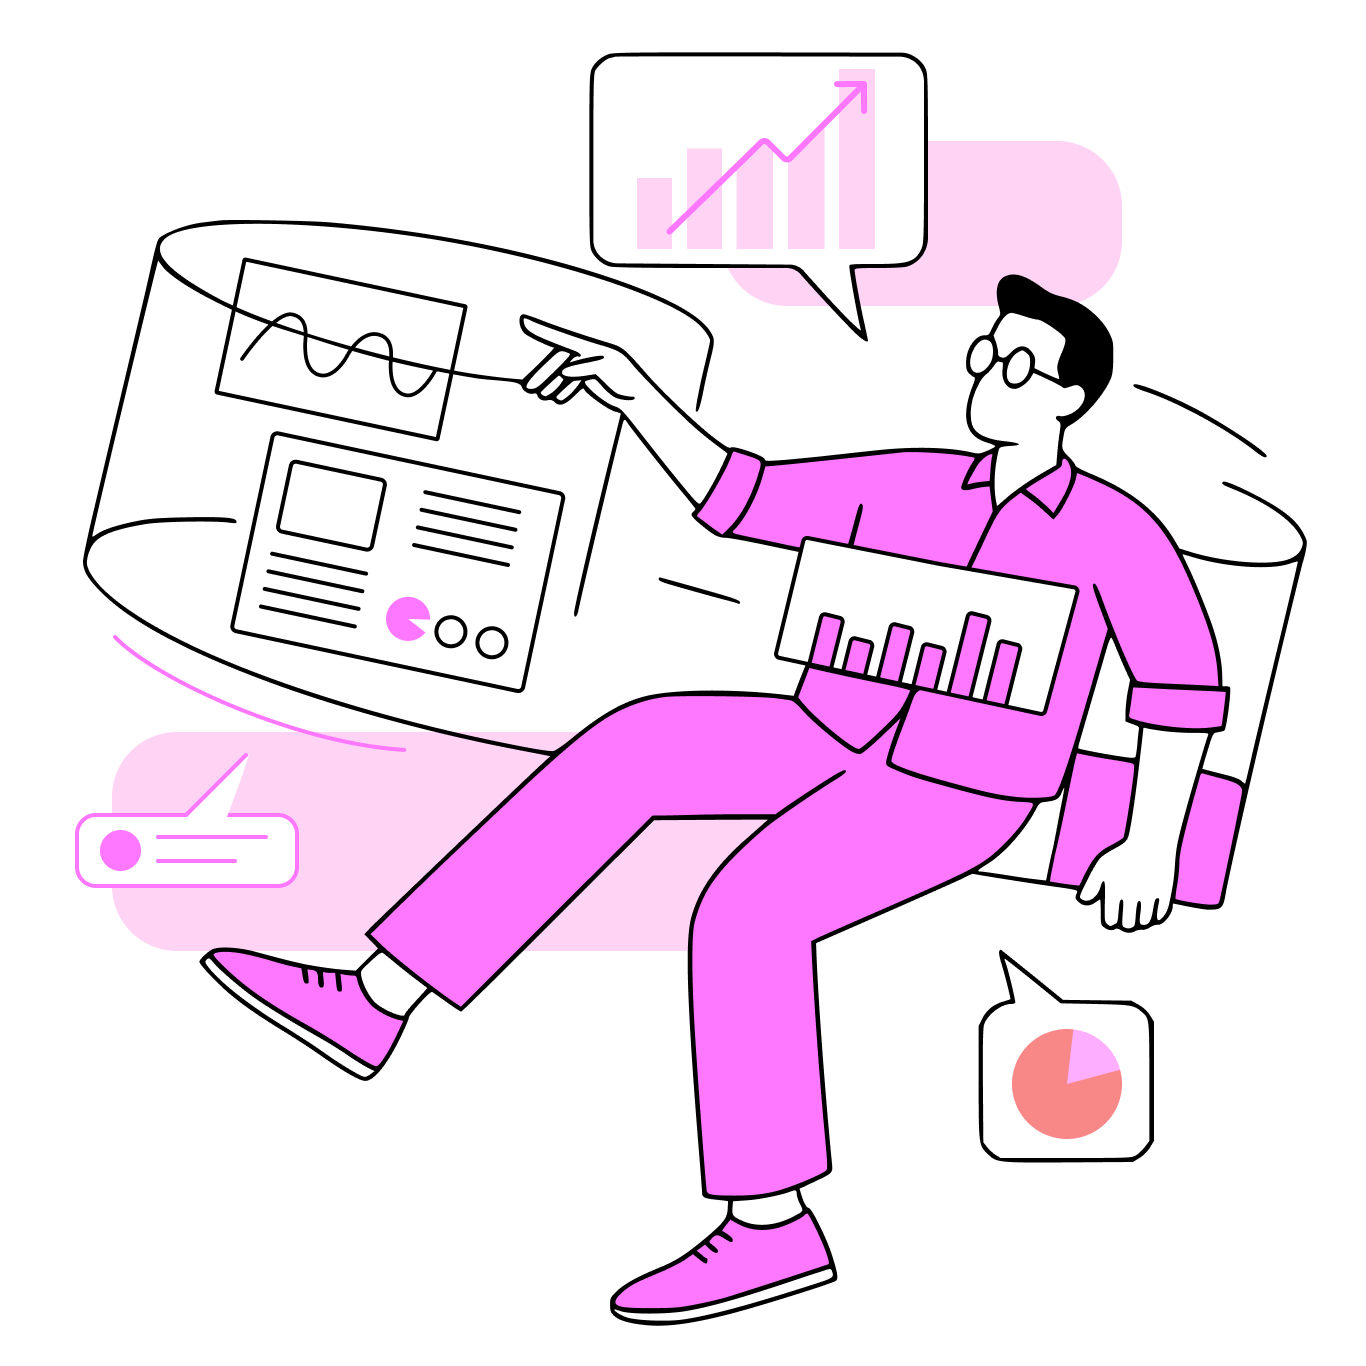
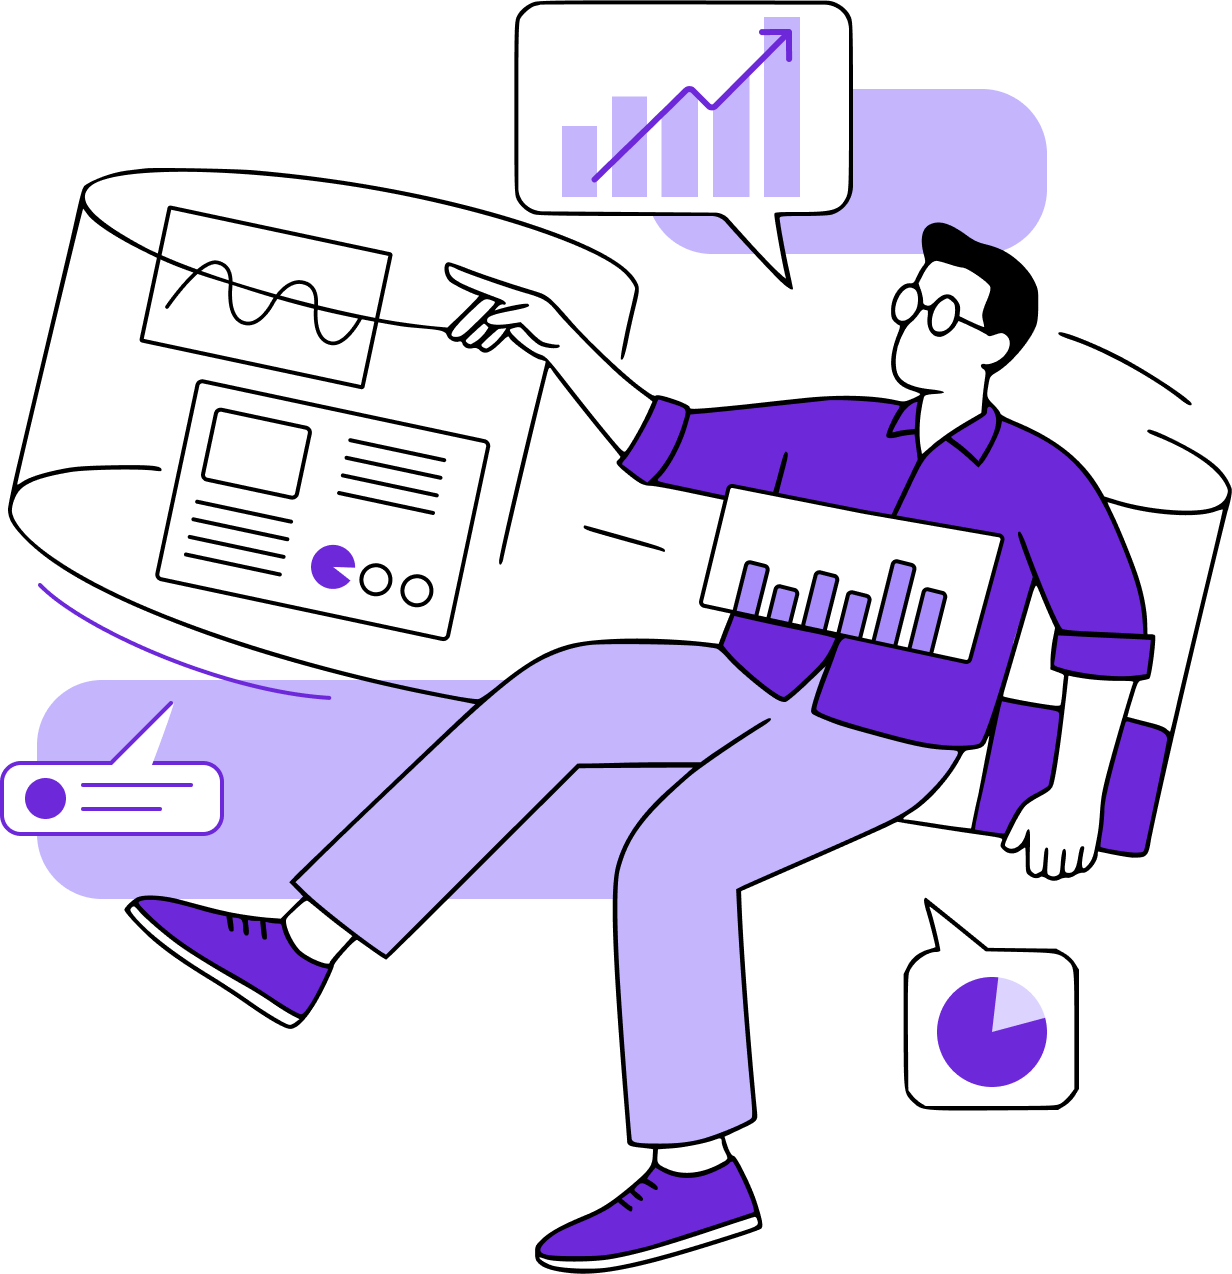
edit visual

diff --git a/index.html b/index.html
@@ -149,7 +149,7 @@
         <div class="row align-items-center cs_gap_y_40">
           <div class="col-xl-6 wow fadeInLeft" data-wow-duration="0.8s" data-wow-delay="0.2s">
             <div class="cs_pr_45 text-center">
-              <img src="/assets/img/ColroseMen.png" alt="">
+              <img src="/assets/img/ColroseWomen.png" alt="">
             </div>
           </div>
           <div class="col-xl-6 wow fadeIn" data-wow-duration="0.8s" data-wow-delay="0.2s">
@@ -206,28 +206,31 @@
               <p class="cs_section_subtitle cs_text_accent"></p>
               <h2 class="cs_section_title mb-0">Какую аналитику можем предоставить</h2>
             </div>
-            <div class="cs_height_60 cs_height_lg_40"></div>
+            <div class="cs_height_40 cs_height_lg_40"></div>
             <ul class="cs_list cs_style_1 cs_mp0">
               <li>
-                <span class="cs_list_text">Процентное распределение брендов внутри магазинов.</span>
+                <span class="cs_list_text">• Процентное распределение брендов внутри магазинов.</span>
               </li>
               <li>
-                <span class="cs_list_text">Анализ наличия и изменения ассортимента ваших конкурентов.</span>
+                <span class="cs_list_text">• Анализ наличия и ассортимента ваших конкурентов.</span>
               </li>
               <li>
-                <span class="cs_list_text">Определение средней рыночной цены на товар и оценка позиций в магазинах относительно неё.</span>
+                <span class="cs_list_text">• Оценка позиций относительно средней рыночной цены.</span>
               </li>
               <li>
-                <span class="cs_list_text">Сопоставление ваших цен и стоимости товаров из других магазинов.</span>
+                <span class="cs_list_text">• Поиск лучших цен на товар.</span>
               </li>
               <li>
-                <span class="cs_list_text">Также мы можем провести аналитику по вашим требованиям.</span>
+                <span class="cs_list_text">• Сопоставление и классификация товаров.</span>
+              </li>
+              <li>
+                <span class="cs_list_text">• Также мы можем провести аналитику по вашим требованиям.</span>
               </li>
             </ul>
           </div>
           <div class="col-xl-6 wow fadeInRight" data-wow-duration="0.8s" data-wow-delay="0.2s">
             <div class="cs_feature_thumb_1 text-center">
-              <img src="/assets/img/ColroseWomen.png" alt="">
+              <img src="/assets/img/ColroseMen.png" alt="">
             </div>
           </div>
         </div>
@@ -410,18 +413,15 @@
           </div>
         </div>
       </div>
-      <div class="cs_faq_shape1"></div>
-      <div class="cs_faq_shape2"></div>
-      <div class="cs_height_150 cs_height_lg_75"></div>
     </section>
     <!--End FAQ's section -->
     <!--Start Blog Section -->
-    <section class="cs_blog cs_gradient_bg_2" id="blog">
-      <div class="cs_height_143 cs_height_lg_75"></div>
+    <section class="cs_blog" id="blog">
+      <div class="cs_height_150 cs_height_lg_75"></div>
       <div class="container">
         <div class="cs_section_heading cs_style_1 text-center">
           <p class="cs_section_subtitle cs_text_accent wow fadeInUp" data-wow-duration="0.8s" data-wow-delay="0.2s">Последние статьи</p>
-          <h2 class="cs_section_title mb-0 wow fadeIn" data-wow-duration="0.8s" data-wow-delay="0.2s"> Блог по сбору данных и аналитике<br></h2>
+          <h2 class="cs_section_title mb-0 wow fadeIn" data-wow-duration="0.8s" data-wow-delay="0.2s"> Блог по мониторингу и аналитике данных<br></h2>
         </div>
         <div class="cs_height_85 cs_height_lg_60"></div>
         <div class="row wow fadeIn" data-wow-duration="0.8s" data-wow-delay="0.2s">
@@ -430,7 +430,6 @@
               <a href="blog/article1.html" class="cs_post_link" style="display: block; text-decoration: none; color: inherit;">
                 <div class="cs_post_thumb">
                   <img src="/assets/img/article1_blog_picture.avif" alt="Image">
-                  <div class="cs_posted_by">25 Mar</div>
                 </div>
               </a>
               <div class="cs_post_content">
@@ -449,7 +448,7 @@
                         <img src="assets/img/label.svg" alt="Image">
                       </div>
                       <p class="mb-0">
-                        Software
+                        2025.08.02
                       </p>
                     </div>
                   </div>
@@ -462,7 +461,7 @@
                 <div class="cs_post_user">
                   <a href="blog/article1.html" class="cs_post_link" style="display: block; text-decoration: none; color: inherit;">
                     <span class="cs_text_btn">
-                      Read More
+                      Читать статью
                       <svg width="11" height="11" viewBox="0 0 11 11" fill="none" xmlns="http://www.w3.org/2000/svg">
                         <path
                           d="M10.147 1.75739C10.147 1.28795 9.76649 0.907395 9.29705 0.907394L1.64705 0.907394C1.17761 0.907395 0.797048 1.28795 0.797048 1.75739C0.797048 2.22684 1.17761 2.60739 1.64705 2.60739H8.44705V9.4074C8.44705 9.87684 8.82761 10.2574 9.29705 10.2574C9.76649 10.2574 10.147 9.87684 10.147 9.4074L10.147 1.75739ZM1.41281 10.8437L9.89809 2.35844L8.69601 1.15635L0.210727 9.64163L1.41281 10.8437Z"
@@ -486,7 +485,6 @@
               <a href="blog/article1.html" class="cs_post_link" style="display: block; text-decoration: none; color: inherit;">
                 <div class="cs_post_thumb">
                   <img src="/assets/img/blog-article-img-2.jpg" alt="Image">
-                  <div class="cs_posted_by">22 Apr</div>
                 </div>
               </a>
               <div class="cs_post_content">
@@ -505,7 +503,7 @@
                         <img src="assets/img/label.svg" alt="Image">
                       </div>
                       <p class="mb-0">
-                        Software
+                        2025.08.02
                       </p>
                     </div>
                   </div>
@@ -518,7 +516,7 @@
                 <div class="cs_post_user">
                   <a href="blog/article1.html" class="cs_post_link" style="display: block; text-decoration: none; color: inherit;">
                     <span class="cs_text_btn">
-                      Read More
+                      Читать статью
                       <svg width="11" height="11" viewBox="0 0 11 11" fill="none" xmlns="http://www.w3.org/2000/svg">
                         <path
                           d="M10.147 1.75739C10.147 1.28795 9.76649 0.907395 9.29705 0.907394L1.64705 0.907394C1.17761 0.907395 0.797048 1.28795 0.797048 1.75739C0.797048 2.22684 1.17761 2.60739 1.64705 2.60739H8.44705V9.4074C8.44705 9.87684 8.82761 10.2574 9.29705 10.2574C9.76649 10.2574 10.147 9.87684 10.147 9.4074L10.147 1.75739ZM1.41281 10.8437L9.89809 2.35844L8.69601 1.15635L0.210727 9.64163L1.41281 10.8437Z"
@@ -534,6 +532,7 @@
                 </div>
               </div>
             </div>
+            <div class="cs_height_lg_30"></div>
             <div class="cs_height_lg_0"></div>
           </div>
           <div class="col-lg-4">
@@ -541,7 +540,6 @@
               <a href="blog/article1.html" class="cs_post_link" style="display: block; text-decoration: none; color: inherit;">
                 <div class="cs_post_thumb">
                   <img src="/assets/img/blog-article-img-3.jpg" alt="Image">
-                  <div class="cs_posted_by">05 July</div>
                 </div>
               </a>
               <div class="cs_post_content">
@@ -560,7 +558,7 @@
                         <img src="assets/img/label.svg" alt="Image">
                       </div>
                       <p class="mb-0">
-                        Software
+                        2025.08.02
                       </p>
                     </div>
                   </div>
@@ -573,7 +571,7 @@
                 <div class="cs_post_user">
                   <a href="blog/article1.html" class="cs_post_link" style="display: block; text-decoration: none; color: inherit;">
                     <span class="cs_text_btn">
-                      Read More
+                     Читать статью
                       <svg width="11" height="11" viewBox="0 0 11 11" fill="none" xmlns="http://www.w3.org/2000/svg">
                         <path
                           d="M10.147 1.75739C10.147 1.28795 9.76649 0.907395 9.29705 0.907394L1.64705 0.907394C1.17761 0.907395 0.797048 1.28795 0.797048 1.75739C0.797048 2.22684 1.17761 2.60739 1.64705 2.60739H8.44705V9.4074C8.44705 9.87684 8.82761 10.2574 9.29705 10.2574C9.76649 10.2574 10.147 9.87684 10.147 9.4074L10.147 1.75739ZM1.41281 10.8437L9.89809 2.35844L8.69601 1.15635L0.210727 9.64163L1.41281 10.8437Z"
@@ -596,12 +594,11 @@
           </div>
         </div>
       </div>
-      <div class="cs_height_150 cs_height_lg_80"></div>
     </section>
     <!--End Blog Section -->
     <!-- Start CTA section -->
     <section id="contact">
-      <div class="cs_height_143 cs_height_lg_75"></div>
+      <div class="cs_height_150 cs_height_lg_80"></div>
       <div class="container">
         <div class="cs_cta cs_style_1 text-center position-relative">
           <div class="cs_cta_in">
@@ -623,10 +620,10 @@
             </div>
           </div>
           <div class="cs_cta_shape1">
-            <img src="assets/img/Ellipse_small.svg" alt="">
+            <img src="assets/img/colrosemedium.svg" alt="">
           </div>
           <div class="cs_cta_shape2">
-            <img src="assets/img/stroke.svg" alt="">
+            <img src="assets/img/colrosebig2.svg" alt="">
           </div>
         </div>
       </div>

diff --git a/assets/css/style.css b/assets/css/style.css
@@ -1399,7 +1399,7 @@ textarea {
 }
 
 .cs_bg_accent {
-  background-color: #5b21b6;
+  background-color: #6D28D9;
 }
 
 .cs_bg_primary {
@@ -1423,7 +1423,7 @@ textarea {
 }
 
 .cs_gradient_bg_2 {
-  background: linear-gradient(90deg, #f0fbf4 0.01%, rgba(240, 251, 244, 0) 99.99%);
+  background: linear-gradient(90deg, #c4b5fd 0.01%, rgba(240, 251, 244, 0) 99.99%);
 }
 
 .cs_up_3_hover:hover {
@@ -1477,7 +1477,7 @@ textarea {
   display: flex;
   align-items: center;
   justify-content: center;
-  background-color: #06b453;
+  background-color: #8b5cf6;
   color: #ffffff;
   font-size: 18px;
   cursor: pointer;
@@ -1651,7 +1651,7 @@ textarea {
   color: #ffffff;
 }
 .cs_btn.cs_bg_primary.cs_dark_hover::after {
-  background-color: #06b453;
+  background-color: #8b5cf6;
 }
 
 .cs_text_btn {
@@ -1675,7 +1675,7 @@ textarea {
   transform: translate(7px, 9px);
 }
 .cs_text_btn:hover {
-  color: #06b453;
+  color: #8b5cf6;
 }
 .cs_text_btn:hover svg:first-child {
   transform: translate(7px, 9px);
@@ -1710,12 +1710,12 @@ textarea {
 }
 
 .cs_feature_thumb_1 {
-  width: calc(100% + 60px);
+  width: calc(85% + 60px);
   padding-left: 60px;
 }
 @media (max-width: 1400px) {
   .cs_feature_thumb_1 {
-    width: 100%;
+    width: 85%;
     padding-left: 0px;
   }
 }
@@ -1756,7 +1756,6 @@ textarea {
 }
 .cs_list.cs_style_1 .cs_list_text {
   font-size: 20px;
-  font-weight: 500;
   line-height: 1.524em;
 }
 @media (max-width: 1400px) {
@@ -2459,7 +2458,7 @@ textarea {
   7. CTA
 ----------------------------------------------------------------*/
 .cs_cta.cs_style_1 {
-  background-color: #0d0c17;
+  background-color: #0f0229;
   padding: 90px 40px 100px;
   border-radius: 20px;
   overflow: hidden;
@@ -2487,20 +2486,20 @@ textarea {
 }
 .cs_cta.cs_style_1 .cs_cta_shape1 {
   position: absolute;
-  top: 0;
-  right: 0;
+  top: -40px;
+  right: -40px;
 }
 .cs_cta.cs_style_1 .cs_cta_shape2 {
   position: absolute;
-  bottom: 0;
-  left: 0;
+  top: 205px;
+  left: -60px
 }
 
 /*--------------------------------------------------------------
 8. Footer
 ----------------------------------------------------------------*/
 .cs_site_footer {
-  background-color: #0d0c17;
+  background-color: #0f0229;
 }
 .cs_site_footer .cs_footer_widget_title {
   color: #ffffff;
@@ -2562,7 +2561,7 @@ textarea {
   color: #ffffff;
 }
 .cs_footer_widget_nav a:hover {
-  color: #06b453;
+  color: #8b5cf6;
 }
 
 .cs_copyright_wrap {
@@ -3301,7 +3300,7 @@ textarea {
   }
 }
 .cs_accordian .cs_accordian_title:hover {
-  color: #06b453;
+  color: #6d28d9;
 }
 .cs_accordian .cs_accordian_body {
   padding: 0px 30px 30px 30px;
@@ -3360,7 +3359,7 @@ textarea {
   transition: all 0.4s ease-in-out;
 }
 .cs_post.cs_style_1 .cs_post_title:hover {
-  color: #06b453;
+  color: #8b5cf6;
 }
 .cs_post.cs_style_1 .cs_post_content_in {
   padding: 25px 30px 25px;

diff --git a/assets/sass/common/_general.scss b/assets/sass/common/_general.scss
@@ -50,9 +50,14 @@
 }
 
 .cs_gradient_bg_2 {
-  background: linear-gradient(90deg,
-      #f0fbf4 0.01%,
-      rgba(240, 251, 244, 0) 99.99%);
+  background: linear-gradient(
+    90deg,
+    #ddd6fe 0%,
+    rgba(221, 214, 254, 0.8) 25%,
+    rgba(221, 214, 254, 0.4) 60%,
+    rgba(221, 214, 254, 0.1) 85%,
+    rgba(221, 214, 254, 0) 100%
+  );
 }
 
 .cs_up_3_hover:hover {
@@ -383,11 +388,11 @@
 }
 
 .cs_feature_thumb_1 {
-  width: calc(100% + 60px);
+  width: calc(85% + 60px);
   padding-left: 60px;
 
   @media (max-width: 1400px) {
-    width: 100%;
+    width: 85%;
     padding-left: 0px;
   }
 }
@@ -431,6 +436,7 @@
     font-size: 22px;
     font-weight: 600;
     line-height: 1.524em;
+    color: rgb(30, 29, 29);
 
     @media (max-width: 1400px) {
       font-size: 20px;
